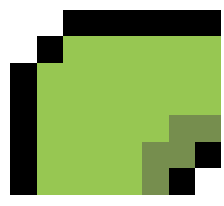
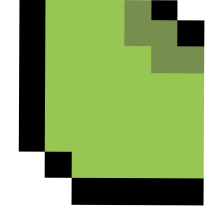
TURNING PIECES ARE ROTATED THE SAME WAY git add .

diff --git a/frontend/src/app/snake/snakeGame.jsx b/frontend/src/app/snake/snakeGame.jsx
@@ -347,17 +347,25 @@ export default function SnakeGame() {
   }
 
   function getTurnAngle(prev, current, next) {
-    const fromPrev = { x: current.x - prev.x, y: current.y - prev.y };
-    const toNext = { x: next.x - current.x, y: next.y - current.y };
-    if (fromPrev.x === 1 && toNext.y === 1) return 0;
-    if (fromPrev.y === 1 && toNext.x === -1) return Math.PI / 2; 
-    if (fromPrev.x === -1 && toNext.y === -1) return Math.PI; 
-    if (fromPrev.y === -1 && toNext.x === 1) return 3 * Math.PI / 2; 
+    const dx1 = current.x - prev.x;
+    const dy1 = current.y - prev.y;
+    const dx2 = next.x - current.x;
+    const dy2 = next.y - current.y;
 
-    if (toNext.x === 1 && fromPrev.y === 1) return 0;
-    if (toNext.y === 1 && fromPrev.x === -1) return Math.PI / 2;
-    if (toNext.x === -1 && fromPrev.y === -1) return Math.PI;
-    if (toNext.y === -1 && fromPrev.x === 1) return 3 * Math.PI / 2;
+    const from = { x: Math.sign(dx1), y: Math.sign(dy1) };
+    const to = { x: Math.sign(dx2), y: Math.sign(dy2) };
+
+    if (from.x === 1 && to.y === 1) return Math.PI;
+    if (from.y === 1 && to.x === -1) return 3 * Math.PI / 2; 
+    if (from.x === -1 && to.y === -1) return 0;
+    if (from.y === -1 && to.x === 1) return Math.PI / 2; 
+
+    if (from.y === 1 && to.x === 1) return 0;
+    if (from.x === -1 && to.y === 1) return Math.PI / 2; 
+    if (from.y === -1 && to.x === -1) return Math.PI; 
+    if (from.x === 1 && to.y === -1) return 3 * Math.PI / 2; 
+
+    console.warn("UNHANDLED TURN", { from, to });
     return 0;
   }
 
